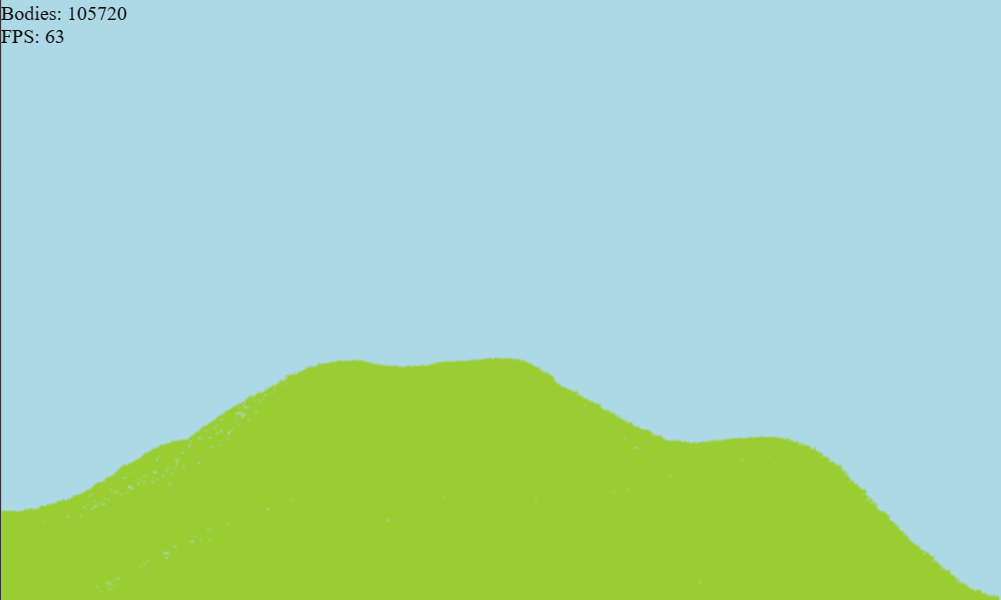
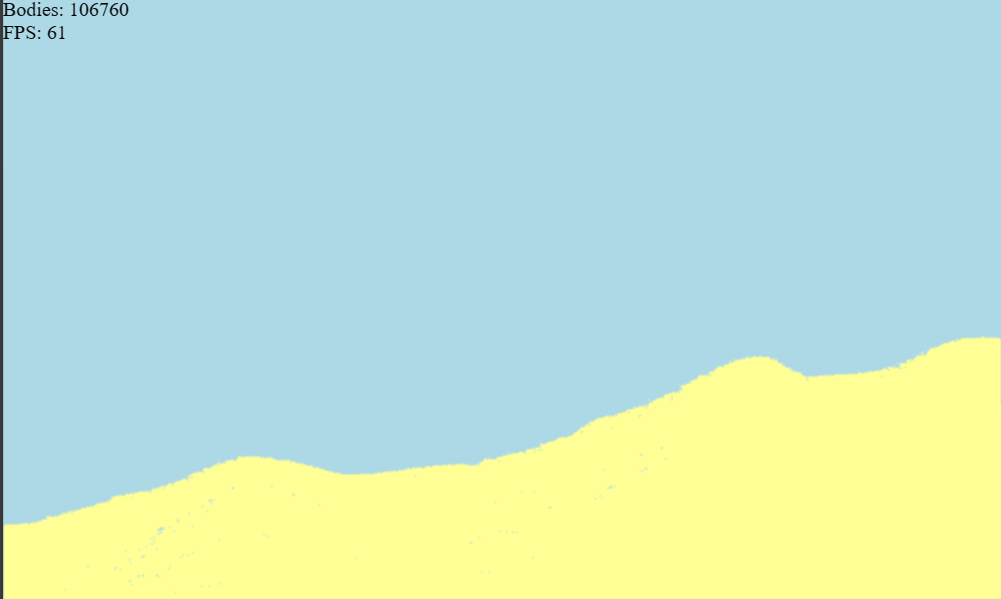
ReadMe

diff --git a/index.js b/index.js
@@ -27,7 +27,7 @@ let vertexShaderCode = `
 
 let fragmentShaderCode = `
     void main() {
-        gl_FragColor = vec4(vec3(154, 205, 50)/255.0, 1.0); // Set pixel color to white
+        gl_FragColor = vec4(vec3(255, 255, 150)/255.0, 1.0); // Set pixel color to white
     }
 `;
 
